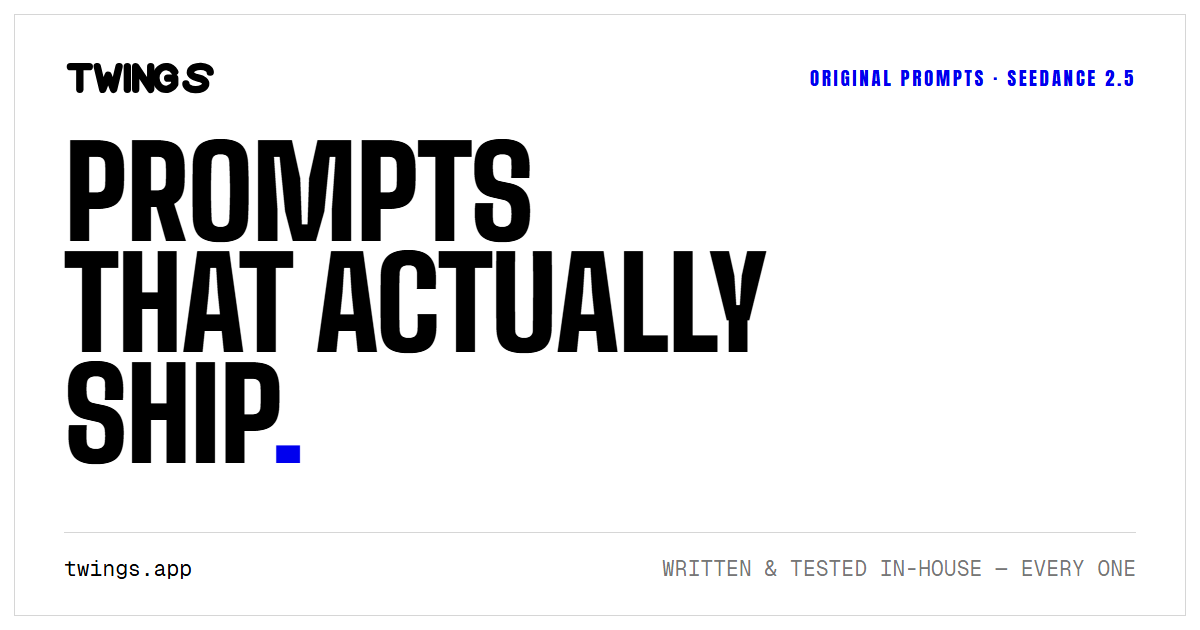
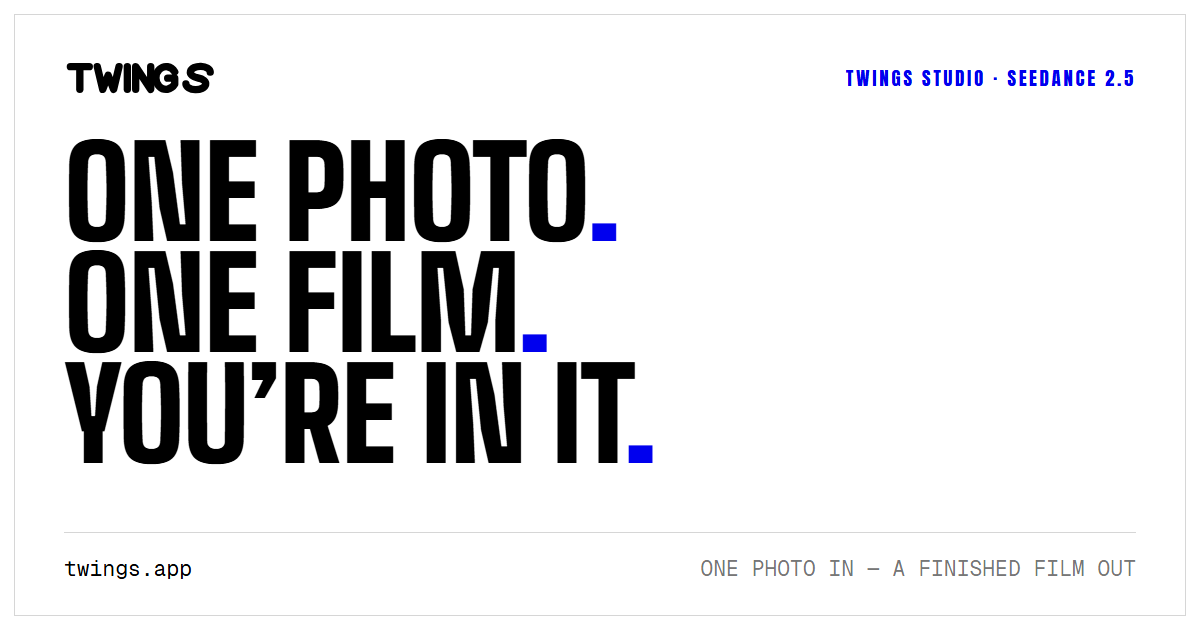
feat(site): film-first copy, studio metadata + sitemap, share card, copy fixes
UX audit batch 1 (2026-09-03). The hero, tagline, landing description, FAQ answer and share
card said "a prompt catalogue" while the nav and the studio button said "a film from one photo";
the FAQ literally said TWINGS never generates. Now one sentence everywhere: one photo in, a
finished film out, with the prompts as evidence. The studio gets a self-canonical, alternates
and og:image (it inherited the landing's canonical and shared as a bare text row) and joins the
sitemap. Smaller: the pricing lock count is interpolated ("3개의" not "3 개의"), the signup
cookie hint reads the wallet constant, the footer enquiry subject and the ko ad label lose their
leftovers, and the studio tab title stops doubling the brand.

Changed region(s): [[0.0308, 0.2111, 0.6475, 0.754], [0.555, 0.8746, 0.9558, 0.9349], [0.6783, 0.0905, 0.8325, 0.1508]]

diff --git a/messages/en.ts b/messages/en.ts
@@ -2,9 +2,9 @@
 export const en = {
   meta: {
     siteName: 'TWINGS',
-    tagline: 'Original Seedance 2.5 prompts, written and tested in-house.',
+    tagline: 'One photo in, a finished film out — on Seedance 2.5, with the prompts to prove it.',
     landingDescription:
-      'Every prompt here was authored in our studio and run on Seedance 2.5 before it went up. Nothing scraped, nothing reposted. Plus a community rail, credited by @handle.',
+      'Upload one photo, pick a scene, get a finished film. Behind every scene is a prompt written in our studio and run on Seedance 2.5 before it went up — nothing scraped, nothing reposted.',
     pricingTitle: 'Pricing',
     pricingDescription:
       'Community prompts are free. A YAGI original opens with one cookie — three free when you join, one free every week, $4 for five.',
@@ -96,11 +96,11 @@ export const en = {
     dismiss: 'Close',
   },
   hero: {
-    eyebrow: 'Original prompts · Seedance 2.5',
-    line1: 'PROMPTS',
-    line2: 'THAT ACTUALLY',
-    line3: 'SHIP.',
-    lede: 'Every prompt is written in-house and run on Seedance 2.5 before it goes up. If the result does not hold up, it does not ship. Nothing is scraped.',
+    eyebrow: 'One photo · Seedance 2.5',
+    line1: 'ONE PHOTO.',
+    line2: 'ONE FILM.',
+    line3: "YOU'RE IN IT.",
+    lede: 'Upload a photo, pick a scene, get a finished film. Every scene runs on a prompt we wrote and tested on Seedance 2.5 first — nothing scraped.',
     secondaryCta: 'How cookies work',
     scroll: 'Scroll',
     reelLabel: 'Prompt reel',
@@ -277,7 +277,7 @@ export const en = {
     errUploadTooLarge: 'That file is over the size limit.',
     errUploadTooLong: 'That clip is longer than {seconds} seconds.',
     errUploadBadType: 'That file type is not accepted.',
-    errSignIn: 'Sign in first — submissions carry a credit, so they need an account.',
+    errSignIn: 'Sign in first — a submission carries your byline, so it needs an account.',
     mySubmissions: 'Your submissions',
     mySubmissionsEmpty: 'You have not sent one in yet.',
     statusPending: 'In review',
@@ -293,7 +293,7 @@ export const en = {
     headline: 'ONE PHOTO.\nYOU ARE THE LEAD.',
     intro:
       'Upload a face, pick a scene, and the studio returns a finished film — built from prompts we actually ran and verified. No shoot, no edit, no prompt to write.',
-    metaTitle: 'TWINGS — a film from one photo',
+    metaTitle: 'A film from one photo',
     metaDescription: 'Upload a photo, pick a scene, get a finished film.',
     stepPhoto: 'Photo',
     stepStyle: 'Scene',
@@ -450,7 +450,7 @@ export const en = {
       'This one stopped taking entries at the deadline. The approved films are on the contest page.',
     upcomingTitle: 'NOT OPEN YET.',
     upcomingBody: 'This contest opens {date}. The brief is already up if you want a head start.',
-    errSignIn: 'Sign in first — an entry carries a credit, so it needs an account.',
+    errSignIn: 'Sign in first — an entry carries your byline, so it needs an account.',
     errRateLimited: 'You can edit your entry up to ten times a day. Try again tomorrow.',
     errInvalid: 'Something in the form did not check out. Check both links start with https.',
     /** Printed at the field the server named, so "something" stops meaning "somewhere". */
@@ -484,7 +484,7 @@ export const en = {
     featureCopy: 'One-click copy on every prompt you have opened',
     featureWorkflow: 'Workflow files — ComfyUI graphs, LUTs, presets',
     featureNotifications: 'Notifications when a playbook drops or is rewritten',
-    proBlocksLocked: 'YAGI prompts waiting behind the lock',
+    proBlocksLocked: '{count} YAGI prompts waiting behind the lock',
     // §15 — the cookie table (가입 3 · 주 1 · $4/5), three cells and the one rule under them.
     cookieSignupTitle: 'When you join',
     cookieSignupValue: '3',
@@ -578,7 +578,7 @@ export const en = {
     q3: 'Are these really original?',
     a3: 'Yes, and that is the whole product. Every prompt in the YAGI rail was written in this studio and run on Seedance 2.5 before it was published. Community submissions are watched back by a human before they appear, and they carry the submitter’s @handle.',
     q4: 'Can I run generations here?',
-    a4: 'No. TWINGS never runs inference for you. It tells you exactly what to run, where, and with which numbers.',
+    a4: 'Yes — in the studio. One photo, one scene, one finished film. The prompt catalogue is the evidence: every scene is a prompt we wrote and ran first.',
     q5: 'Is everything bilingual?',
     a5: 'Titles and explanations are written in Korean and English. Prompts themselves are not translated — they are model inputs, and translating them changes the output.',
     q6: 'Can you build this for us?',

diff --git a/messages/ko.ts b/messages/ko.ts
@@ -13,9 +13,9 @@ import type { Dictionary } from './en';
 export const ko: Dictionary = {
   meta: {
     siteName: 'TWINGS',
-    tagline: '직접 만들고 검증한 Seedance 2.5 오리지널 프롬프트.',
+    tagline: '사진 한 장을 넣으면 완성된 영상이 나옵니다 — Seedance 2.5, 검증된 프롬프트로.',
     landingDescription:
-      '모든 프롬프트를 스튜디오에서 직접 작성하고 Seedance 2.5로 검증한 뒤 공개합니다. 다른 곳에서 가져온 프롬프트는 없습니다. 커뮤니티 프롬프트는 @핸들과 함께 올라갑니다.',
+      '사진 한 장을 올리고 장면을 고르면 완성된 영상이 나옵니다. 모든 장면 뒤에는 스튜디오에서 직접 쓰고 Seedance 2.5로 검증한 프롬프트가 있습니다. 어디서도 긁어오지 않습니다.',
     pricingTitle: '요금제',
     pricingDescription:
       '커뮤니티 프롬프트는 무료입니다. YAGI 오리지널은 쿠키 1개로 열립니다. 가입하면 3개, 매주 1개가 무료이고, $4에 5개를 살 수 있습니다.',
@@ -96,11 +96,11 @@ export const ko: Dictionary = {
     dismiss: '닫기',
   },
   hero: {
-    eyebrow: '오리지널 프롬프트 · Seedance 2.5',
-    line1: '결과로',
-    line2: '검증된',
-    line3: '프롬프트.',
-    lede: '모든 프롬프트를 직접 작성하고 Seedance 2.5로 돌려본 뒤에 올립니다. 기대한 결과가 나온 프롬프트만 남기며, 어디서도 긁어오지 않습니다.',
+    eyebrow: '사진 한 장 · Seedance 2.5',
+    line1: '사진 한 장.',
+    line2: '영화 한 편.',
+    line3: '주인공은 당신.',
+    lede: '사진을 올리고 장면을 고르면 완성된 영상이 나옵니다. 모든 장면은 직접 쓰고 Seedance 2.5로 돌려본 프롬프트로 만들어집니다.',
     secondaryCta: '쿠키 안내 보기',
     scroll: '스크롤',
     reelLabel: '프롬프트 릴',
@@ -281,7 +281,7 @@ export const ko: Dictionary = {
     headline: '사진 한 장이면\n당신이 주인공입니다.',
     intro:
       '얼굴 사진을 올리고 장면을 고르면, 스튜디오가 실제로 검증한 프롬프트로 완성된 영상을 만들어 드립니다. 편집도, 촬영도, 프롬프트를 쓸 필요도 없습니다.',
-    metaTitle: 'TWINGS — 사진 한 장으로 만드는 영상',
+    metaTitle: '사진 한 장으로 만드는 영상',
     metaDescription: '사진을 올리고 장면을 고르면 완성된 영상이 나옵니다.',
     stepPhoto: '사진',
     stepStyle: '장면',
@@ -459,7 +459,7 @@ export const ko: Dictionary = {
     featureCopy: '연 프롬프트는 원클릭으로 복사',
     featureWorkflow: '워크플로 파일 — ComfyUI 그래프, LUT, 프리셋',
     featureNotifications: '새 플레이북·업데이트 알림',
-    proBlocksLocked: '개의 YAGI 프롬프트가 잠겨 있습니다',
+    proBlocksLocked: '{count}개의 YAGI 프롬프트가 잠겨 있습니다',
     cookieSignupTitle: '가입할 때',
     cookieSignupValue: '3',
     cookieSignupNote: '처음 로그인하면 쿠키 3개가 들어옵니다. 카드도, 입력할 정보도 없습니다.',
@@ -550,7 +550,7 @@ export const ko: Dictionary = {
     q3: '정말 전부 오리지널인가요?',
     a3: '네. YAGI 레일의 프롬프트는 전부 이 스튜디오에서 직접 쓰고 Seedance 2.5로 검증한 뒤 공개합니다. 커뮤니티 제출작도 사람이 직접 확인한 뒤 게시되며, 제출자의 @핸들이 함께 표기됩니다.',
     q4: '여기서 영상 생성도 할 수 있나요?',
-    a4: '아니요. TWINGS는 생성 서비스가 아닙니다. 어떤 프롬프트를 어디서 어떤 값으로 실행해야 하는지 알려주는 서비스입니다.',
+    a4: '네, 스튜디오에서 됩니다. 사진 한 장, 장면 하나, 완성된 영상 한 편. 프롬프트 카탈로그는 그 증거입니다 — 모든 장면은 저희가 먼저 쓰고 돌려본 프롬프트입니다.',
     q5: '한국어로도 제공되나요?',
     a5: '제목과 설명은 한국어와 영어로 모두 제공합니다. 프롬프트 자체는 모델 입력값이므로 번역하지 않습니다. 번역하면 결과가 달라집니다.',
     q6: '제작 의뢰도 받나요?',
@@ -577,7 +577,7 @@ export const ko: Dictionary = {
   ad: {
     placeholder: 'YOUR AD HERE',
     contact: 'hello@yagiworkshop.xyz',
-    contactLabel: 'Contact',
+    contactLabel: '문의',
     label: '광고',
     pitch: 'AI 미디어를 만들어가는 제작자에게 제품을 홍보하고 싶은 광고주를 찾습니다.',
   },

diff --git a/app/(marketing)/[locale]/studio/page.tsx b/app/(marketing)/[locale]/studio/page.tsx
@@ -2,6 +2,7 @@ import type { Metadata } from 'next';
 import { DEFAULT_LOCALE, isLocale, type Locale } from '@/lib/i18n/config';
 import { getDictionary } from '@/lib/i18n/dictionaries';
 import { getPromptCatalog } from '@/lib/prompts/public-catalog';
+import { SITE_OG_IMAGE, SITE_TWITTER_CARD } from '@/lib/seo/og';
 import { formatPrice, joinStyles } from '@/lib/twings/products';
 import { MarketingFooter, MarketingNav } from '@/components/marketing/chrome';
 import { TwingsStudio, type StudioStyle } from '@/components/twings/studio';
@@ -28,8 +29,28 @@ function localeOf(raw: string): Locale {
 
 export async function generateMetadata({ params }: RouteParams): Promise<Metadata> {
   const { locale: raw } = await params;
-  const dict = getDictionary(localeOf(raw));
-  return { title: dict.studio.metaTitle, description: dict.studio.metaDescription };
+  const locale = localeOf(raw);
+  const dict = getDictionary(locale);
+  // Self-canonical, like pricing: without this the layout's `/${locale}` canonical hands the
+  // front door to the landing, and a shared link renders as a bare text row (no og:image).
+  return {
+    title: dict.studio.metaTitle,
+    description: dict.studio.metaDescription,
+    alternates: {
+      canonical: `/${locale}/studio`,
+      languages: { en: '/en/studio', ko: '/ko/studio', 'x-default': '/en/studio' },
+    },
+    openGraph: {
+      type: 'website',
+      locale: locale === 'ko' ? 'ko_KR' : 'en_US',
+      url: `/${locale}/studio`,
+      title: `${dict.studio.metaTitle} — ${dict.meta.siteName}`,
+      description: dict.studio.metaDescription,
+      siteName: dict.meta.siteName,
+      images: [SITE_OG_IMAGE],
+    },
+    twitter: { card: SITE_TWITTER_CARD },
+  };
 }
 
 export default async function StudioPage({ params }: RouteParams) {

diff --git a/tests/seo/sitemap.test.ts b/tests/seo/sitemap.test.ts
@@ -52,6 +52,9 @@ describe('sitemap (§8 M5)', () => {
     expect(urls).toContain(`${ORIGIN}/ko`);
     expect(urls).toContain(`${ORIGIN}/en/pricing`);
     expect(urls).toContain(`${ORIGIN}/ko/pricing`);
+    // The studio is the front door (2026-09-03) — a front door a crawler cannot find is not one.
+    expect(urls).toContain(`${ORIGIN}/en/studio`);
+    expect(urls).toContain(`${ORIGIN}/ko/studio`);
   });
 
   it('lists showcase playbook details only', () => {
@@ -95,12 +98,12 @@ describe('sitemap (§8 M5)', () => {
 
   it('degrades to an empty catalog without producing a broken sitemap', () => {
     const empty = buildSitemap({ origin: ORIGIN, cards: [] });
-    // Seven marketing pages × two locales: landing, the §13.2 gallery, the §14.2 contests listing,
+    // Eight marketing pages × two locales: landing, the studio (2026-09-03), the §13.2 gallery, the §14.2 contests listing,
     // pricing, and the three legal documents (2026-08-14 — a payment provider's merchant review
     // and 전자상거래법 §21 expect them publicly reachable). The contests listing is in the sitemap
     // even with no contest published — it is a real page with a designed empty state (§14.2), not
     // a page that only exists when it has rows.
-    expect(empty).toHaveLength(14);
+    expect(empty).toHaveLength(16);
     expect(empty.every((entry) => entry.url.startsWith(ORIGIN))).toBe(true);
   });
 });

diff --git a/app/(marketing)/[locale]/pricing/page.tsx b/app/(marketing)/[locale]/pricing/page.tsx
@@ -12,7 +12,7 @@ import { PlanTable } from '@/components/pricing/plan-table';
 import { Faq } from '@/components/landing/faq';
 import { Reveal } from '@/components/motion/reveal';
 import { TextSwap } from '@/components/ui/text-swap';
-import { formatCount } from '@/lib/i18n/format';
+import { formatCount, interpolate } from '@/lib/i18n/format';
 
 /**
  * Pricing — PLAN §15.3: the cookie model (가입 3 · 주 1 · $4/5), with the §3.1 counts line from
@@ -125,7 +125,7 @@ export default async function PricingPage({ params }: { params: Promise<{ locale
                     ·
                   </span>
                   <span className="text-accent">
-                    {formatCount(lockedYagi, locale)} {dict.pricing.proBlocksLocked}
+                    {interpolate(dict.pricing.proBlocksLocked, { count: formatCount(lockedYagi, locale) })}
                   </span>
                 </>
               )}

diff --git a/content/og/card-comp.html b/content/og/card-comp.html
@@ -62,14 +62,14 @@
           </g>
         </svg>
       </div>
-      <div class="eyebrow">ORIGINAL PROMPTS · SEEDANCE 2.5</div>
+      <div class="eyebrow">TWINGS STUDIO · SEEDANCE 2.5</div>
     </div>
 
-    <div class="display">Prompts<br>that actually<br>ship<span class="accent">.</span></div>
+    <div class="display">One photo<span class="accent">.</span><br>One film<span class="accent">.</span><br>You&rsquo;re in it<span class="accent">.</span></div>
 
     <div class="bottom">
       <span class="url">twings.app</span>
-      <span class="note">WRITTEN & TESTED IN-HOUSE — EVERY ONE</span>
+      <span class="note">ONE PHOTO IN — A FINISHED FILM OUT</span>
     </div>
   </div>
 </body>

diff --git a/lib/seo/sitemap.ts b/lib/seo/sitemap.ts
@@ -78,6 +78,9 @@ export function buildSitemap(input: SitemapInput): MetadataRoute.Sitemap {
     changeFrequency: 'daily' | 'weekly' | 'yearly';
   }> = [
     { rest: '/', priority: 1, changeFrequency: 'daily' },
+    // The studio is the product's front door (2026-09-03); weekly, because a style is added
+    // about as often as a contest, not as often as a prompt.
+    { rest: '/studio', priority: 0.9, changeFrequency: 'weekly' },
     // §13.2 — the gallery is the v1.5 front door and is indexed; it changes as often as the studio
     // publishes, which is the same cadence as the landing it now leads.
     { rest: '/prompts', priority: 0.9, changeFrequency: 'daily' },

diff --git a/components/prompts/detail.tsx b/components/prompts/detail.tsx
@@ -1,3 +1,4 @@
+import { SIGNUP_COOKIES } from '@/lib/cookies/wallet';
 import type { PromptCard } from '@/lib/prompts/catalog';
 import type { ShapedPrompt } from '@/lib/prompts/shape';
 import type { UnlockPanel } from '@/lib/cookies/wallet';
@@ -233,7 +234,7 @@ function UnlockPanelView({
           <TextSwap>{labels.signinCta} →</TextSwap>
         </a>
         <p className="mt-3 font-mono text-[0.72rem] opacity-45">
-          {signinOnly ? labels.signinOnlyHint : interpolate(labels.signinHint, { count: '3' })}
+          {signinOnly ? labels.signinOnlyHint : interpolate(labels.signinHint, { count: String(SIGNUP_COOKIES) })}
         </p>
       </div>
     );

diff --git a/components/site-footer.tsx b/components/site-footer.tsx
@@ -93,7 +93,7 @@ export function SiteFooter({
             <p className="font-label text-eyebrow uppercase opacity-60">{labels.contactHeading}</p>
             <HireClickBeacon>
               <a
-                href="mailto:hello@yagiworkshop.xyz?subject=YAGI%20PROMPTS%20%E2%80%94%20studio%20enquiry"
+                href="mailto:hello@yagiworkshop.xyz?subject=TWINGS%20%E2%80%94%20studio%20enquiry"
                 className="font-mono text-code"
               >
                 hello@yagiworkshop.xyz

diff --git a/tests/ui/landing.test.tsx b/tests/ui/landing.test.tsx
@@ -25,7 +25,7 @@ describe('mobile-first hero (F3)', () => {
   });
 
   it('hides the lede and the submit link below lg — and only below lg', () => {
-    expect(hero).toMatch(/class="hidden [^"]*lg:block[^"]*"[^>]*>[^<]*in-house/);
+    expect(hero).toMatch(/class="hidden [^"]*lg:block[^"]*"[^>]*>[^<]*finished film/);
     expect(hero).toMatch(/href="\/prompts\/submit"[^>]*hidden[^>]*lg:inline-block/);
   });
 

diff --git a/lib/seo/og.ts b/lib/seo/og.ts
@@ -20,7 +20,7 @@ export const SITE_OG_IMAGE = {
   url: '/og/card.png',
   width: 1200,
   height: 630,
-  alt: 'TWINGS — prompts that actually ship.',
+  alt: "TWINGS — one photo, one film, you're in it.",
 };
 
 /** `summary_large_image` is what turns the card from a text row into the full-width preview. */
